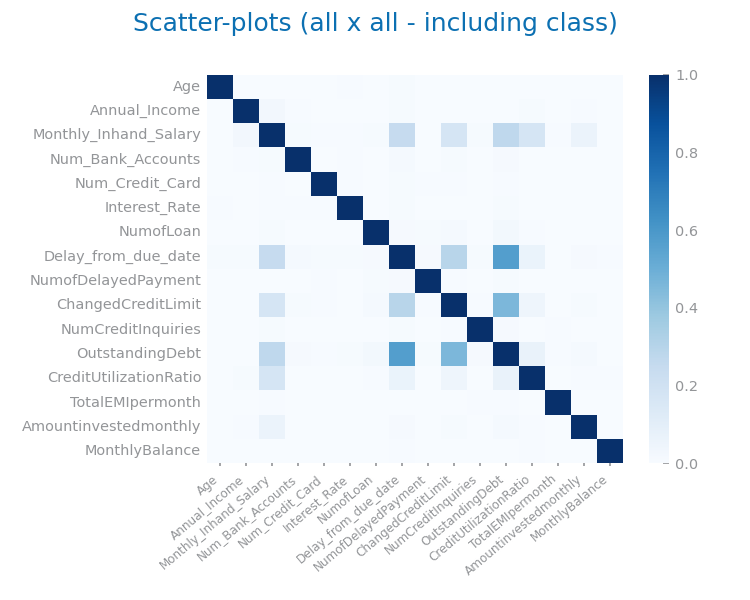
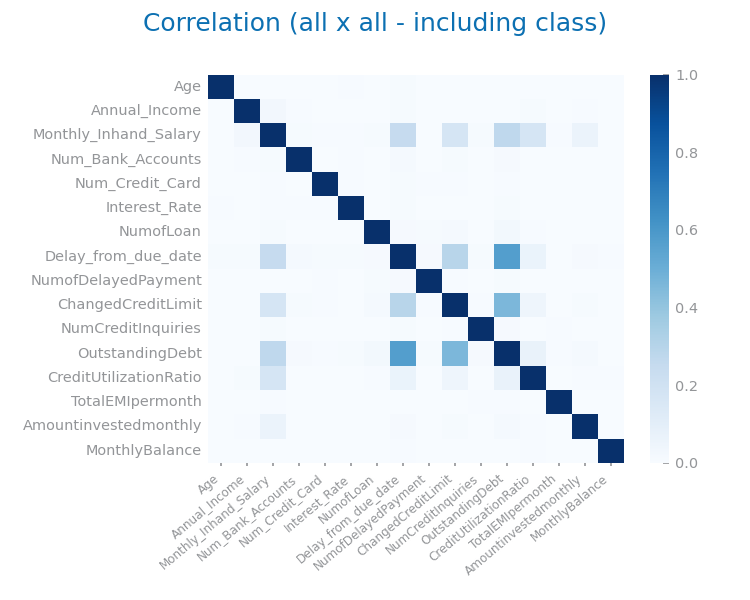
almost finished the data profiling, cant test scatter

diff --git a/dataset2/lab1.py b/dataset2/lab1.py
@@ -13,7 +13,7 @@ def nrRecordsVars(data: DataFrame, file_tag: str):
     plot_bar_chart(
         list(values.keys()), list(values.values()), title="Nr of records vs nr variables"
     )
-    savefig(f"images/{file_tag}_records_variables.png")
+    savefig(f"images/lab1/{file_tag}_records_variables.png")
     show()
 
 #***********************************************************************************
@@ -35,7 +35,7 @@ def variableTypes(data: DataFrame, file_tag: str):
     plot_bar_chart(
         list(counts.keys()), list(counts.values()), title="Nr of variables per type"
     )
-    savefig(f"images/{file_tag}_variable_types.png")
+    savefig(f"images/lab1/{file_tag}_variable_types.png")
     show()
 
 
@@ -66,13 +66,13 @@ def missingVals(data: DataFrame, file_tag: str):
     )
 
     tight_layout()
-    savefig(f"images/{file_tag}_mv.png")
+    savefig(f"images/lab1/{file_tag}_mv.png")
     show()
 
 # DATA SPARSITY
 #***********************************************************************************
 #*                                   EX 1                                          *
-#*                Scatter-plots (all x all - including class)                      *
+#*             4.1 - Scatter-plots (all x all - including class)                   *
 #***********************************************************************************
 import pandas as pd
 from numpy import ndarray
@@ -81,7 +81,7 @@ from matplotlib.figure import Figure
 from matplotlib.pyplot import figure, subplots, savefig, show
 from dslabs_functions import HEIGHT, plot_multi_scatters_chart, plot_scatter_chart
 
-def scatterPlots(data: DataFrame, file_tag: str):
+def scatterPlots(data: DataFrame, file_tag: str, target: str):
     out = ["Customer_ID","ID","SSN"]
     data = data.dropna()
 
@@ -93,33 +93,21 @@ def scatterPlots(data: DataFrame, file_tag: str):
     allPlots, allAxis = [], []
     
     if [] != vars:
-        target = "Credit_Score"
         n: int = len(vars) - 1
         fig, axs = subplots(n, n, figsize=(n * HEIGHT, n * HEIGHT), squeeze=False)
         for i in range(len(vars)):
             var1: str = vars[i]
             for j in range(i + 1, len(vars)):
                 var2: str = vars[j]
-                # allPlots += [[var1,var2]]
-                # allAxis += [[i, j - 1]]
                 plot_multi_scatters_chart(data, var1, var2, target, ax=axs[i, j - 1])
-        # savefig(f"images/{file_tag}_sparsity_per_class_study.png")
-        # show()
-        print(allPlots, len(allPlots))
-        # for i in range(len(allPlots)):
-        #     var1, var2 = allPlots[i][0], allPlots[i][1]
-        #     plot_multi_scatters_chart(data, var1, var2, target, ax=axs[allAxis[i][0], allAxis[i][1]])
-        savefig(f"images/{file_tag}_All_sparsity_per_class_study.png")
+        savefig(f"images/{file_tag}_sparsity_per_class_study.png")
         show()
-    
     else:
         print("Sparsity per class: there are no variables.")
-    
-    print("Sparsity done")
 
 #***********************************************************************************
 #*                                   EX 2                                          *
-#*                 Correlation (all x all - including class)                       *
+#*              4.2 - Correlation (all x all - including class)                    *
 #***********************************************************************************
 
 from seaborn import heatmap
@@ -131,7 +119,7 @@ def correlationAll(data: DataFrame, file_tag: str):
     corr_mtx: DataFrame = data[numeric].corr().abs()
 
     fig = figure(figsize=(5, 4))
-    fig.suptitle(f"Scatter-plots (all x all - including class)")
+    fig.suptitle(f"Correlation (all x all - including class)")
     ax = heatmap(
         abs(corr_mtx),
         xticklabels=numeric,
@@ -143,7 +131,7 @@ def correlationAll(data: DataFrame, file_tag: str):
     )
     ax.set_xticklabels(numeric, rotation=40, ha='right')
     tight_layout()
-    savefig(f"images/{file_tag}_correlation_analysis.png")
+    savefig(f"images/lab1/{file_tag}_correlation_analysis.png")
     show()
 
 #***********************************************************************************
@@ -170,6 +158,16 @@ def analyse_property_granularity(data: DataFrame, axs: ndarray, j: int, vars: li
             title=vars[i],
             xlabel=vars[i],
             ylabel="number of records",
+            percentage=False,
+        )
+    if vars == ["Type_of_Loan", "Loan_grouped"]: # plotting the unique loans count on the same row
+        plot_bar_chart(
+            list(type_of_loan_unique_count(data).keys()),
+            list(type_of_loan_unique_count(data).values()),
+            ax=axs[j, i+1],
+            title="Unique Loans Count",
+            xlabel="Loan",
+            ylabel="Number of Occurences",
             percentage=False,
         )
     return axs
@@ -232,17 +230,31 @@ def type_of_loan_gran_data(tl: str) -> str:
             return "single_loan"
     else:
         return nan
+    
+def get_all_unique_loans(data: DataFrame) -> list:
+    res = []
+    for loan in data["Type_of_Loan"].dropna().unique().tolist():
+        for individual_loan in list(map(lambda x: x.strip(), loan.split(','))):
+            if "and " in individual_loan:
+                individual_loan = individual_loan.replace("and ", "", 1)
+            if individual_loan.replace(" ","_") not in res:
+                res += [individual_loan.replace(" ","_")]
+    return res
+
+def get_unique_loans_for1entry(full_loan_entry: str) -> list:
+    return list(map(lambda x: x.strip().replace("and ", "").replace(" ", "_"), full_loan_entry.split(',')))
+
+def type_of_loan_unique_count(data: DataFrame):
+    res = {}
+    for unique_loan in get_all_unique_loans(data):
+        res[unique_loan] = 0
+    for full_loan_entry in data["Type_of_Loan"].dropna():
+        for split_fle in get_unique_loans_for1entry(full_loan_entry):
+            res[split_fle] += 1
+    return res
             
 
 def symbolic_variables_granularity(data: DataFrame, file_tag: str):
-    #res = []
-    #for loan in data["Type_of_Loan"].dropna().unique().tolist():
-    #    for individual_loan in list(map(lambda x: x.strip(), loan.split(','))):
-    #        if "and " in individual_loan:
-    #            individual_loan = individual_loan.replace("and ", "", 1)
-    #        if individual_loan not in res:
-    #            res += [individual_loan]
-    #print(len(res), res)
     variables = get_symbolic_nonBinary_variables(data)
     cols: int = 3
     rows: int = len(variables)
@@ -271,7 +283,7 @@ def symbolic_variables_granularity(data: DataFrame, file_tag: str):
         i += 1
     # MAYBE CLEANUP ?????
     data.drop(["Area_of_Occupation", "CHA_year", "PB_amount_spent", "PB_size_payments", "Loan_grouped"], axis = 1)
-    savefig(f"images/{file_tag}_granularity.png", bbox_inches='tight')
+    savefig(f"images/lab1/{file_tag}_granularity.png", bbox_inches='tight')
     show()
 
 #***********************************************************************************
@@ -294,19 +306,7 @@ def global_box_plot(data: DataFrame, file_tag: str):
     numeric: list[str] = variables_types["numeric"]
     if [] != numeric:
         data.boxplot(rot=45)
-        savefig(f"images/{file_tag}_global_boxplot.png", bbox_inches='tight')
-        show()
-    else:
-        print("There are no numeric variables.")
-
-def global_box_plot_modified_data(data: DataFrame, file_tag: str):
-    variables_types: dict[str, list] = get_variable_types(data)
-    numeric: list[str] = variables_types["numeric"]
-    if [] != numeric:
-        data = data[data['MonthlyBalance'] >= -3e26]
-        print(data.shape)
-        data.boxplot(rot=45)
-        savefig(f"images/{file_tag}_global_boxplot_modified.png", bbox_inches='tight')
+        savefig(f"images/lab1/{file_tag}_global_boxplot.png", bbox_inches='tight')
         show()
     else:
         print("There are no numeric variables.")
@@ -331,7 +331,7 @@ def boxplots_individual_num_vars(data: DataFrame, file_tag: str):
             axs[i, j].set_title("Boxplot for %s" % numeric[n])
             axs[i, j].boxplot(data[numeric[n]].dropna().values)
             i, j = (i + 1, 0) if (n + 1) % cols == 0 else (i, j + 1)
-        savefig(f"images/{file_tag}_single_boxplots.png")
+        savefig(f"images/lab1/{file_tag}_single_boxplots.png")
         show()
     else:
         print("There are no numeric variables.")
@@ -405,7 +405,7 @@ def outliers(data: DataFrame, file_tag: str):
             ylabel="nr outliers",
             percentage=False,
         )
-        savefig(f"images/{file_tag}_outliers_standard.png")
+        savefig(f"images/lab1/{file_tag}_outliers_standard.png")
         show()
     else:
         print("There are no numeric variables.")
@@ -437,7 +437,7 @@ def histograms_numeric_vars(data: DataFrame, file_tag: str):
             )
             axs[i, j].hist(data[numeric[n]].dropna().values, 60)
             i, j = (i + 1, 0) if (n + 1) % cols == 0 else (i, j + 1)
-        savefig(f"images/{file_tag}_single_histograms_numeric.png")
+        savefig(f"images/lab1/{file_tag}_single_histograms_numeric.png")
         show()
     else:
         print("There are no numeric variables.")
@@ -488,7 +488,7 @@ def distributions_numeric_vars(data: DataFrame, file_tag: str):
         for n in range(len(numeric)):
             histogram_with_distributions(axs[i, j], data[numeric[n]].dropna(), numeric[n])
             i, j = (i + 1, 0) if (n + 1) % cols == 0 else (i, j + 1)
-        savefig(f"images/{file_tag}_numeric_distribution.png")
+        savefig(f"images/lab1/{file_tag}_numeric_distribution.png")
         show()
     else:
         print("There are no numeric variables.")
@@ -528,7 +528,7 @@ def histograms_symbolic_vars(data: DataFrame, file_tag: str):
             )
             
             i, j = (i + 1, 0) if (n + 1) % cols == 0 else (i, j + 1)
-        savefig(f"images/{file_tag}_histograms_symbolic.png")
+        savefig(f"images/lab1/{file_tag}_histograms_symbolic.png")
         show()
     else:
         print("There are no symbolic variables.")
@@ -545,7 +545,7 @@ def class_distribution(data: DataFrame, file_tag: str, target: str):
         values.to_list(),
         title=f"Target distribution (target={target})",
     )
-    savefig(f"images/{file_tag}_class_distribution.png", bbox_inches='tight')
+    savefig(f"images/lab1/{file_tag}_class_distribution.png", bbox_inches='tight')
     show()
 
 #***********************************************************************************
@@ -563,14 +563,12 @@ if __name__ == "__main__":
     #print(data.shape)
     #print(data.head)
     data['Age'] = data['Age'].astype(str).str.replace('_', '', regex=False).astype(int)
-
+    
     # granularity
-    #scatterPlots(data, file_tag)
     symbolic_variables_granularity(data, file_tag)
 
     # distribution
     #global_box_plot(data, file_tag)
-    #global_box_plot_modified_data(data, file_tag)
     #boxplots_individual_num_vars(data, file_tag)
     #outliers(data, file_tag)
     #class_distribution(data, file_tag, target)
@@ -578,5 +576,6 @@ if __name__ == "__main__":
     #distributions_numeric_vars(data, file_tag)
     #histograms_symbolic_vars(data, file_tag)
     
-    #print(get_symbolic_nonBinary_variables(data))
-    #print(data['Type_of_Loan'].unique())
+    # Data Sparsity
+    #scatterPlots(data, file_tag, target)
+    #correlationAll(data, file_tag)

diff --git a/dataset2/dslabs_functions.py b/dataset2/dslabs_functions.py
@@ -91,6 +91,9 @@ def set_chart_xticks(
             rotation = 45
 
         ax.tick_params(axis="x", labelrotation=rotation, labelsize="xx-small")
+        if len(xvalues) > 40:
+            print("wfkqfqoenfrqofnoqnefiqneron")
+            ax.set_xticklabels([])
 
     return ax
 
@@ -267,6 +270,12 @@ def plot_multi_scatters_chart(
                 ax.scatter(
                     subset[var1], subset[var2], color=ACTIVE_COLORS[i], label=values[i]
                 )
+            if var1 == "Type_of_Loan" or var1 == "Credit_History_Age":
+                # Turn off x tick labels
+                ax.set_xticklabels([])
+            if var2 == "Type_of_Loan" or var2 == "Credit_History_Age":
+                # Turn off y tick labels
+                ax.set_yticklabels([])
             ax.legend(fontsize="xx-small")
     else:
         ax.scatter(data[var1], data[var2], color=FILL_COLOR)
